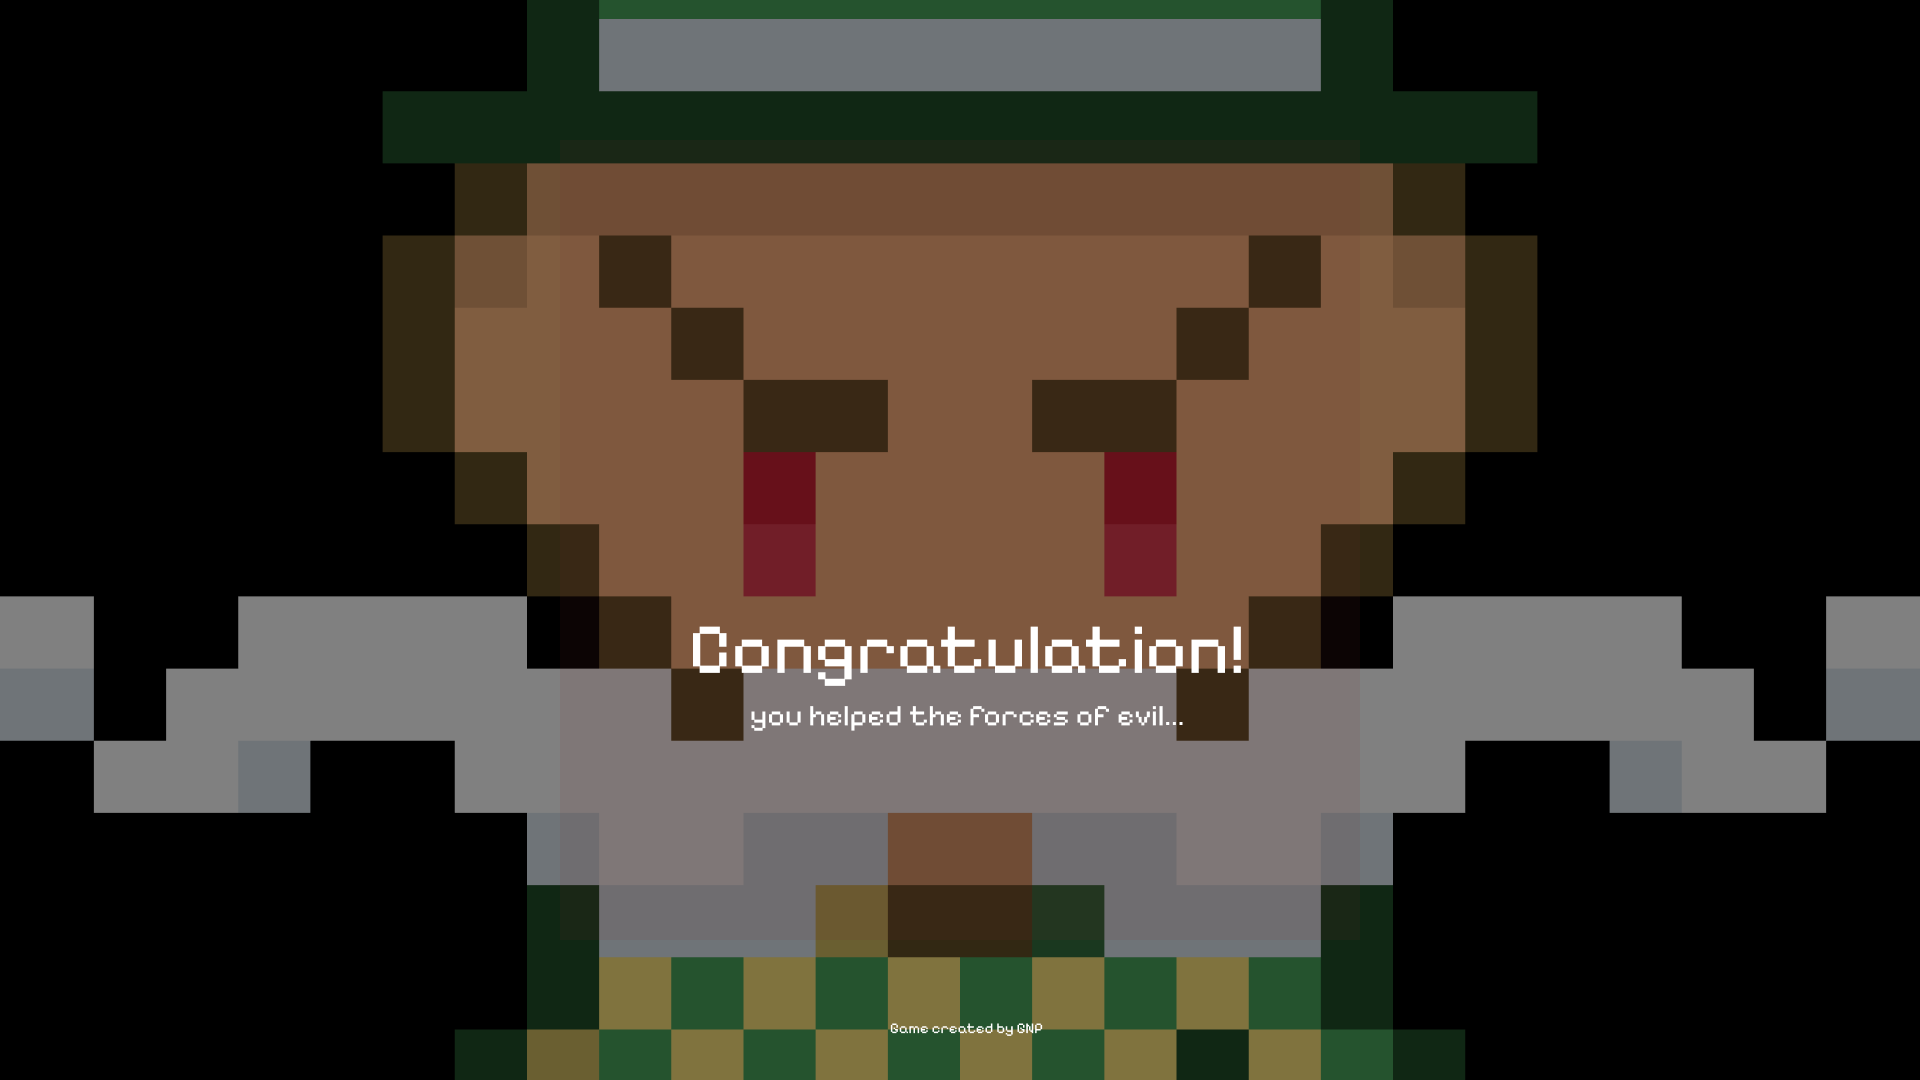
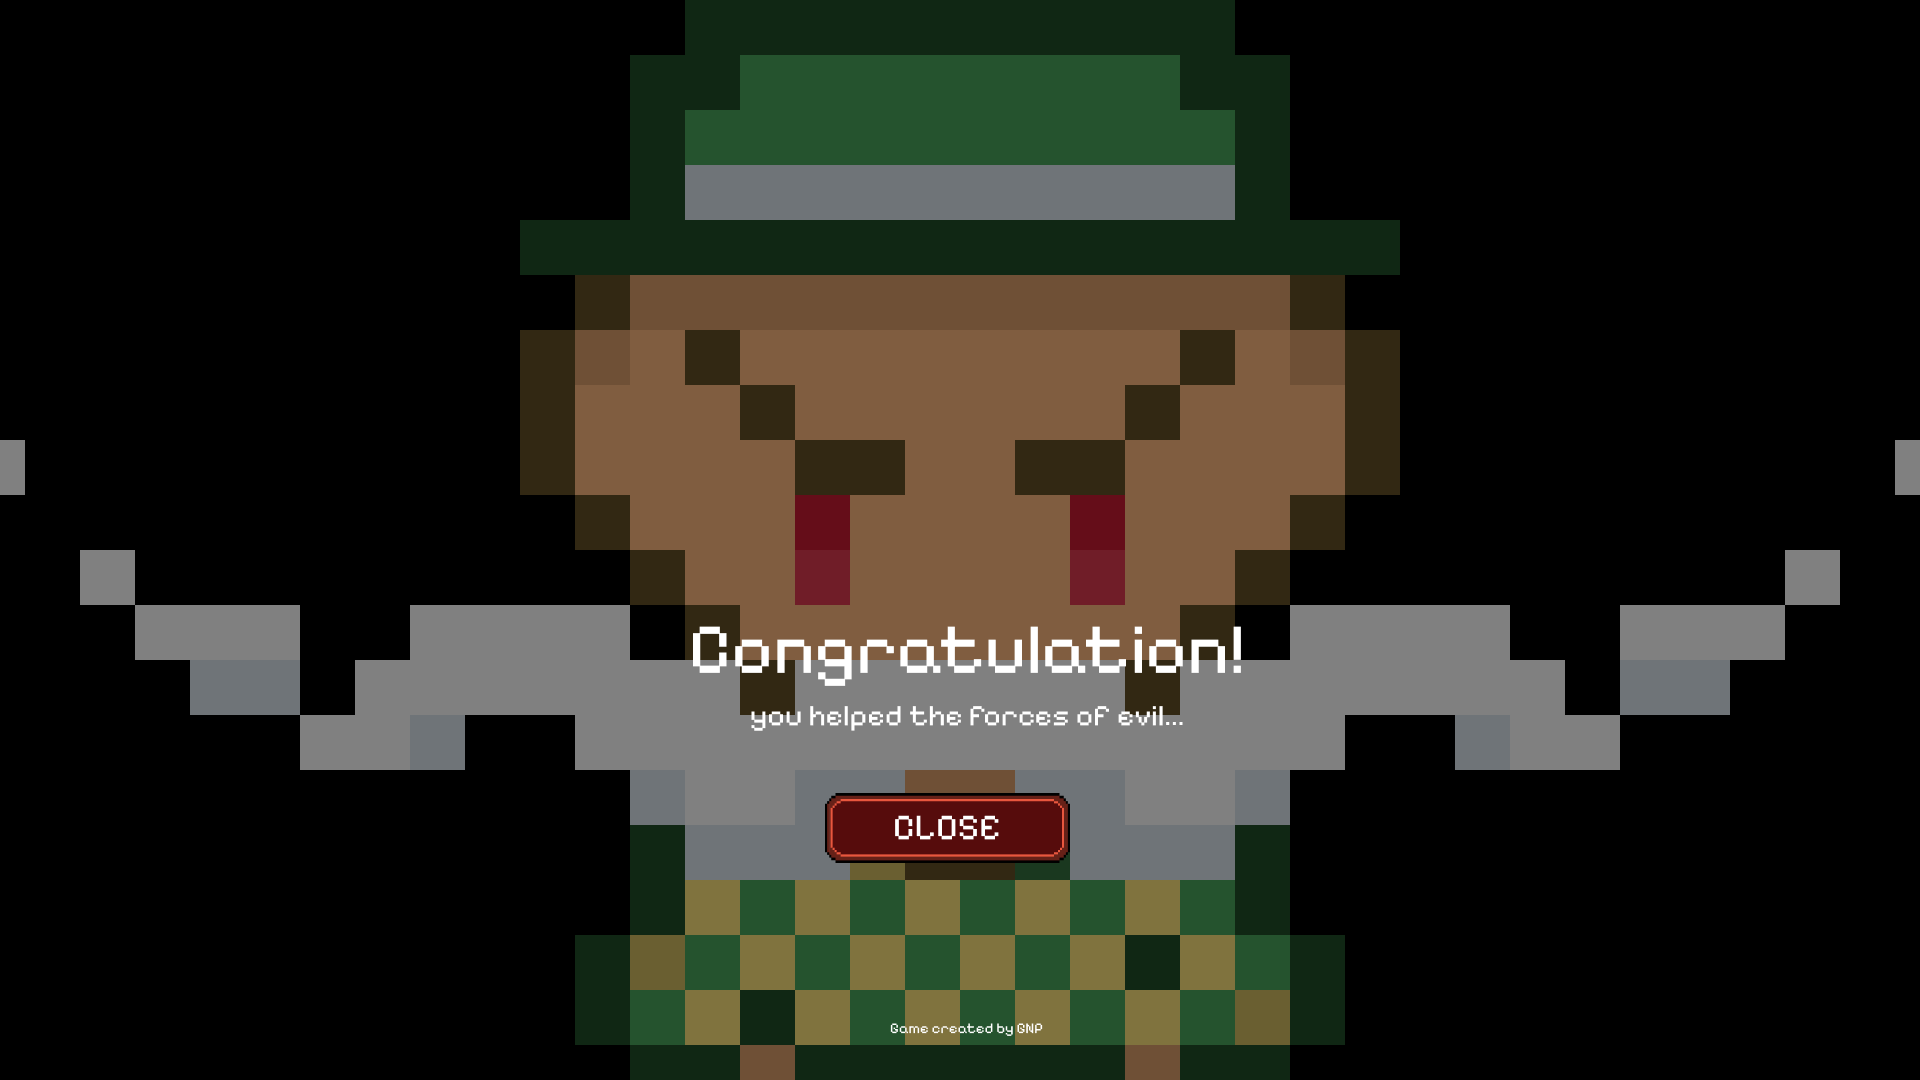
feat: add escape button functionality with associated texture

diff --git a/src/scenes/draw_game.cpp b/src/scenes/draw_game.cpp
@@ -30,6 +30,7 @@ STP3D::FPSCamera camera;
 
 // textures
 GLBI_Texture textureAtlas;
+GLBI_Texture escapeTexture;
 
 // OpenGL Shapes
 StandardMesh floorTile;
@@ -38,6 +39,7 @@ StandardMesh itemTile;
 StandardMesh trapTile;
 StandardMesh obstTile;
 StandardMesh lifeTile;
+StandardMesh escapeTile;
 
 int computeBitmask(bool north, bool east, bool south, bool west)
 {
@@ -238,6 +240,33 @@ void drawPlayerLife(const Game &game, int &windowX, int &windowY)
     }
 }
 
+void drawEscapeButton(const Game &game, int &windowX, int &windowY)
+{
+    float aspectRatio = static_cast<float>(windowX) / static_cast<float>(windowY);
+    float halfViewX = GL_VIEW_SIZE * aspectRatio / 2;
+    float halfViewY = GL_VIEW_SIZE / 2;
+
+        myEngine.activateTexturing(true);
+        escapeTexture.attachTexture();
+        myEngine.mvMatrixStack.pushMatrix();
+        myEngine.updateMvMatrix();
+
+        float x = halfViewX - 1.f;
+        float y = -halfViewY + 0.75f;
+        
+        myEngine.setFlatColor(1.0, 1.0, 1.0);
+
+        myEngine.mvMatrixStack.pushMatrix();
+        myEngine.mvMatrixStack.addTranslation(Vector3D(x, y, 0.0));
+        myEngine.updateMvMatrix();
+        escapeTile.draw();
+        myEngine.mvMatrixStack.popMatrix();
+
+        myEngine.mvMatrixStack.popMatrix();
+        myEngine.activateTexturing(false);
+        escapeTexture.detachTexture();
+}
+
 void initTextures()
 {
     floorTile = Texturing::createMapTileMesh(0, 0);
@@ -252,10 +281,14 @@ void initTextures()
     obstTile.createVAO();
     lifeTile = Texturing::createMapTileMesh(0, 7);
     lifeTile.createVAO();
+
 }
 
 void DrawGame::init()
 {
+    Texturing::initTexture(escapeTexture, "ESC-BUTTON", "png");
+    escapeTile = Texturing::createImageMesh(0, 0, 100, 70, 100, 70);
+    escapeTile.createVAO();
 
     Texturing::initTexture(textureAtlas, "Map", "png");
 
@@ -324,6 +357,7 @@ void DrawGame::render(const Game &game)
     myEngine.switchToFlatShading();
 
     drawPlayerLife(game, windowX, windowY);
+    drawEscapeButton(game, windowX, windowY);
 
     myEngine.setViewMatrix(camera.viewMatrix);
 
